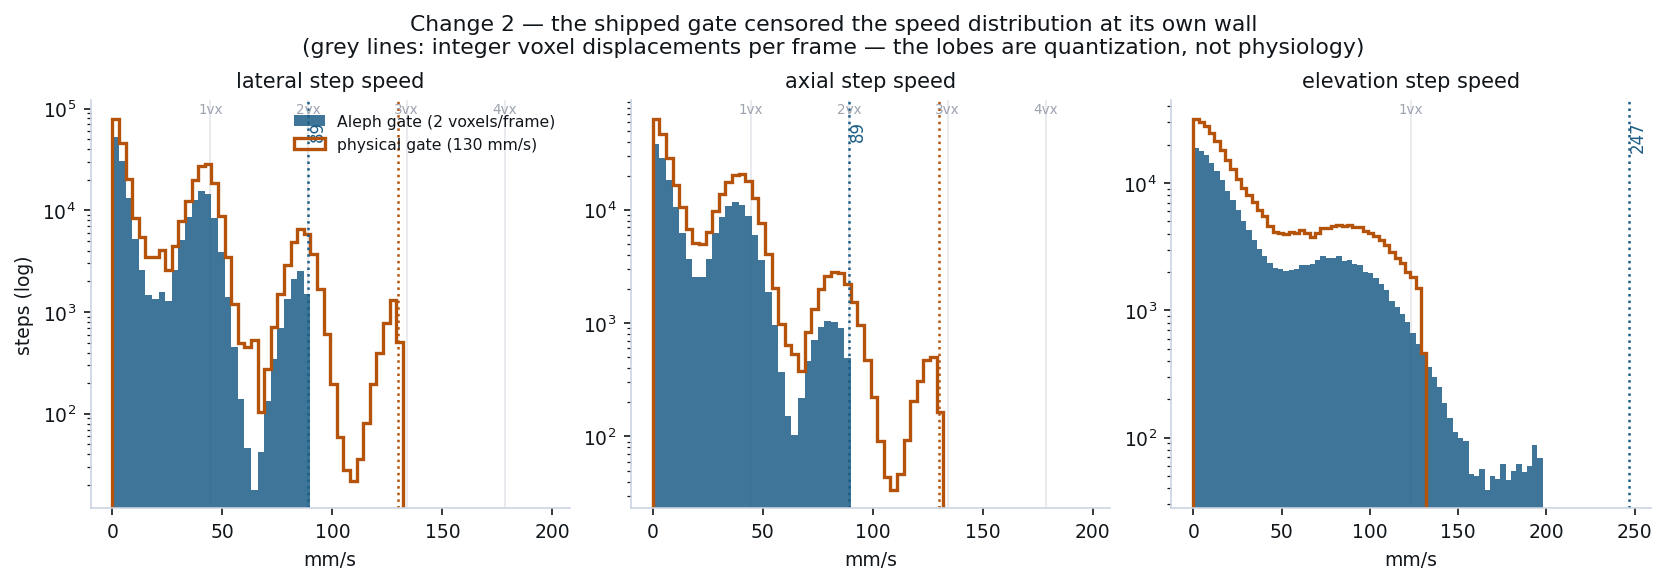
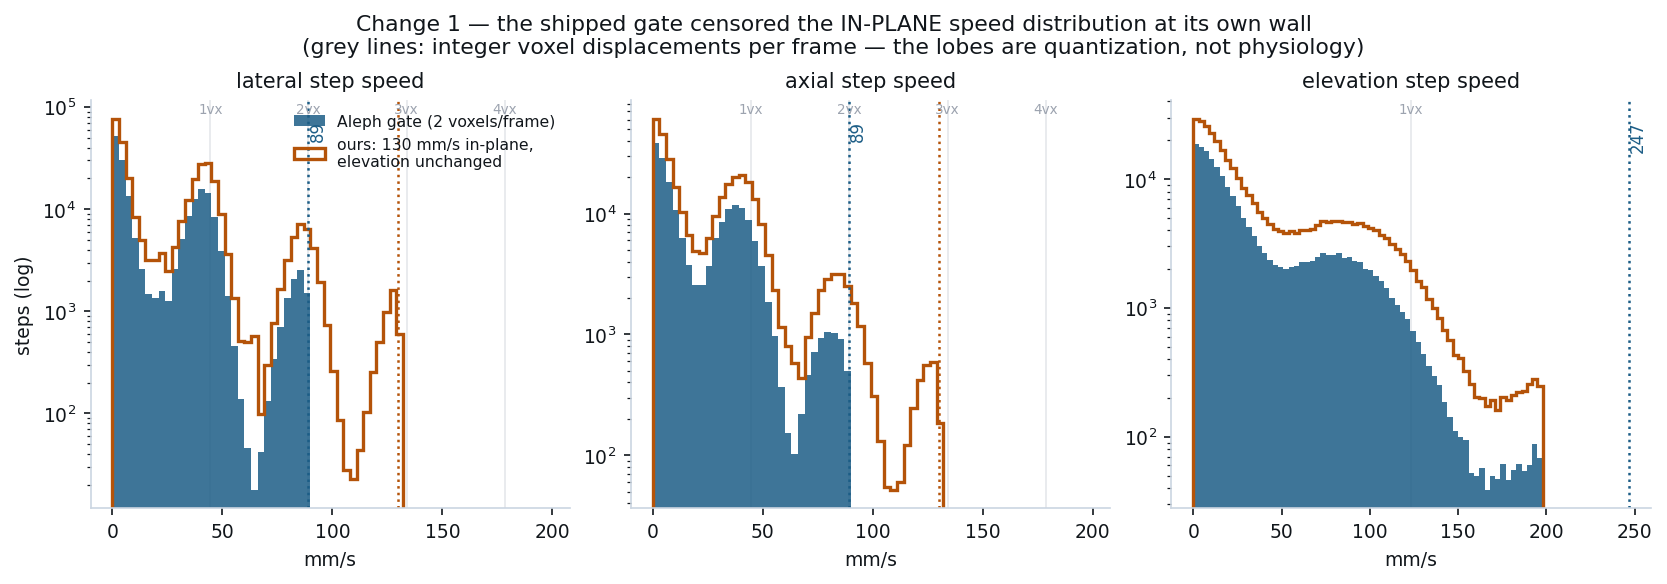
align gate to the exact 2-voxel elevation; refresh figures and numbers (1,786 tracks >=35, 96.1% purity)

diff --git a/scripts/wf_render_signal/changes_figures.py b/scripts/wf_render_signal/changes_figures.py
@@ -71,7 +71,7 @@ def fig1():
         bins = np.arange(0, 200, 3)
         ax.hist(base[axis], bins=bins, color=C_BASE, alpha=.85, label="Aleph gate (2 voxels/frame)")
         ax.hist(imp[axis], bins=bins, histtype="step", lw=1.6, color=C_IMP,
-                label="physical gate (130 mm/s)")
+                label="ours: 130 mm/s in-plane,\nelevation unchanged")
         # the lobes are integer voxel displacements per frame, not physiological modes:
         # 1 voxel/frame = 44.6 mm/s in-plane, 123.4 in elevation
         step = VOX[axis] * FRAME_RATE
@@ -84,13 +84,13 @@ def fig1():
         ax.annotate(f"{GATE_OLD[axis]:.0f}", (GATE_OLD[axis], ax.get_ylim()[1] * .92),
                     color=C_BASE, fontsize=8, ha="left", va="top", rotation=90)
         if axis != "elevation":
-            ax.axvline(130, color=C_IMP, ls=":", lw=1.2)
+            ax.axvline(130, color=C_IMP, ls=":", lw=1.2)   # elevation is deliberately left alone
         ax.set_yscale("log")
         ax.set_title(f"{axis} step speed")
         ax.set_xlabel("mm/s")
     axes[0].set_ylabel("steps (log)")
     axes[0].legend(fontsize=7.5, frameon=False, loc="upper right")
-    fig.suptitle("Change 2 — the shipped gate censored the speed distribution at its own wall\n"
+    fig.suptitle("Change 1 — the shipped gate censored the IN-PLANE speed distribution at its own wall\n"
                  "(grey lines: integer voxel displacements per frame — the lobes are quantization, not physiology)",
                  fontsize=10.5, y=1.10)
     fig.savefig(OUT / "change_gate_wall.png", bbox_inches="tight", facecolor="white")

diff --git a/scripts/wf_render_signal/apply_operating_point.py b/scripts/wf_render_signal/apply_operating_point.py
@@ -40,7 +40,7 @@ MAX_WORKERS = 4
 MAX_COST = 10.0          # production TrackingOptions value, not the function default (1e5)
 
 BASELINE = {"inplane": None, "elev": None, "min_len": 15}      # None => shipped voxel gate
-PROPOSED = {"inplane": 130.0, "elev": 247.0, "min_len": 10}  # elevation at the Aleph default; floor re-derived for this gate
+PROPOSED = {"inplane": 130.0, "elev": 246.76, "min_len": 10}  # elevation at the Aleph default; floor re-derived for this gate
 
 
 # `_tracking_gate` returns (dx, dy, dz) * 2 with dy = elevation, and `max_dist_mms` is

diff --git a/scripts/wf_render_signal/emit_improved_tracks.py b/scripts/wf_render_signal/emit_improved_tracks.py
@@ -20,8 +20,8 @@ REPO = Path(__file__).resolve().parents[2]
 DET_DIR = REPO / "outputs" / "corrected_full"
 OUT_DIR = REPO / "outputs" / "operating_point" / "tracks"
 FRAME_RATE = 222.4306816130359
-GATE_MMS = (130.0, 130.0, 130.0)          # (x, elevation, z)
-MIN_LEN = 8
+GATE_MMS = (130.0, 246.76, 130.0)        # (x, elevation, z) -- elevation at the Aleph 2-voxel default
+MIN_LEN = 10             # re-derived at this gate (95% purity knee)
 MAX_COST = 10.0
 
 

diff --git a/docs/from-baseline-to-improved.md b/docs/from-baseline-to-improved.md
@@ -1,7 +1,7 @@
 # From the Aleph baseline to our pipeline: every discrete change
 
 We start from the shipped `alephneuro/microbubbles` pipeline run with its own settings, on the
-corrected 216-acquisition public dataset. **Two settings differ in what we ship.** This document
+corrected 216-acquisition public dataset. **Two settings differ in what we ship** — and only one axis of one of them. This document
 explains each one, what forced it, and what it cost — plus the things we tried and rejected, so
 the ledger is not just a list of wins.
 
@@ -68,8 +68,9 @@ distribution" of the published tracks was a picture of our own gate. Any bubble 
 
 **Reading the figure.** The lobes at 0, ~45 and ~90 mm/s are integer voxel displacements per
 frame (1 voxel/frame = 44.6 mm/s in-plane), not physiological flow modes — sub-voxel localization
-is not smoothing them out. Blue (the shipped gate) stops at the 2-voxel line; orange reaches the
-third lobe. In elevation the change *tightens* the gate, which is why orange stops earlier there.
+is not smoothing them out. Blue (the shipped gate) stops dead at the 2-voxel line in both in-plane panels; orange reaches
+the third lobe. The elevation panel is the control: we change nothing there, so the two curves
+end at the same place and orange simply sits above blue because more tracks are published.
 
 ### Why the elevation gate is *not* a mistake — and why our first recommendation was
 
@@ -90,7 +91,7 @@ Our first version of this document called the anisotropy "backwards" and tighten
 | **130 / 247 — in-plane only** | **477** |
 
 Tightening elevation gave away 80 of the 105 available long tracks. On the full dataset the same
-choice costs 253 (1,784 against 1,531). Velocity units are the right way to express a *motion*
+choice costs 253 (1,786 against 1,531). Velocity units are the right way to express a *motion*
 limit; they are the wrong way to express a *precision* limit, and elevation is dominated by the
 latter.
 
@@ -121,7 +122,7 @@ along. Physical units are right for a threshold on *motion*. The gate is partly 
 **Raise the in-plane gate to 130 mm/s. Leave elevation exactly as Aleph had it.** One axis, not
 three, via their own `max_dist_mms` — no new code.
 
-**Effect: +333 tracks of ≥35 frames** (1,451 → 1,784, +23%) and +135 of ≥50 frames (582 → 717).
+**Effect: +335 tracks of ≥35 frames** (1,451 → 1,786, +23%) and +135 of ≥50 frames (582 → 716).
 
 130 mm/s is not a physiological number; it is the knee of a yield-versus-false-link trade, past
 which the gain flattens while chance links climb.
@@ -164,9 +165,9 @@ many the shuffled data yields. That ratio is the false-track rate at that length
 | N = 2 | 333,722 | **76%** |
 | N = 5 | 61,861 | 21% |
 | N = 8 | 26,889 | 7.3% |
-| **N = 10 (ours)** | **18,393** | **3.9%** |
+| **N = 10 (ours)** | **18,390** | **3.9%** |
 | N = 15 (Aleph's) | 9,339 | 0.9% |
-| N = 35 (the headline metric) | 1,784 | **0%** |
+| N = 35 (the headline metric) | 1,786 | **0%** |
 
 Two-frame tracks are mostly noise, as expected. By 10 frames the false rate has dropped below 4%
 and the curve has flattened — going from 10 to 15 throws away half the remaining tracks to buy
@@ -185,9 +186,9 @@ do not.
 
 ### What it costs and what it buys
 
-- **2.5× more published trajectories** (7,296 → 18,393) and detections linked into tracks rising
+- **2.5× more published trajectories** (7,296 → 18,390) and detections linked into tracks rising
   from 9.2% to 16.5%.
-- **False-track rate 0.5% → 3.9%.** In absolute terms, about 712 of the 18,393 published tracks
+- **False-track rate 0.5% → 3.9%.** In absolute terms, about 712 of the 18,390 published tracks
   are expected to be coincidences, against 35 today.
 - **The long-track count is untouched**, because a floor at 8 or 15 cannot affect a 35-frame
   track. That is why tracks ≥35 is the metric used for comparison against the reference.
@@ -236,9 +237,9 @@ harness that silently inherited a 10,000× looser assignment cost than productio
 
 | | Aleph reference | our recreation | with our two changes |
 |---|---|---|---|
-| tracks ≥35 frames | 1,421 | 1,451 | **1,784** |
-| tracks ≥50 frames | — | 582 | **717** |
-| tracks at native floor | 50,456 (floor 5) | 7,296 (floor 15) | 18,393 (floor 10) |
+| tracks ≥35 frames | 1,421 | 1,451 | **1,786** |
+| tracks ≥50 frames | — | 582 | **716** |
+| tracks at native floor | 50,456 (floor 5) | 7,296 (floor 15) | 18,390 (floor 10) |
 | detections linked into tracks | — | 9.2% | **16.5%** |
 | false-track rate vs shuffled control | never measured | 0.5% | 3.9% |
 
